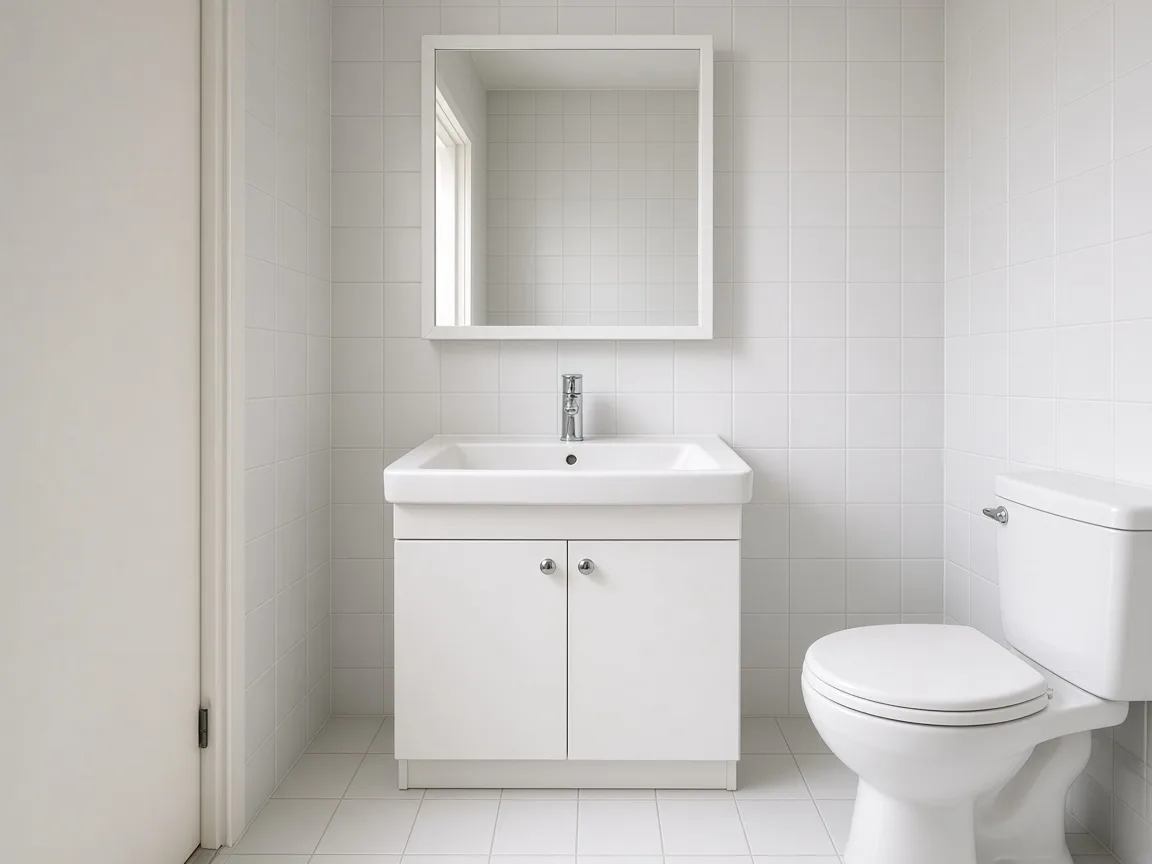
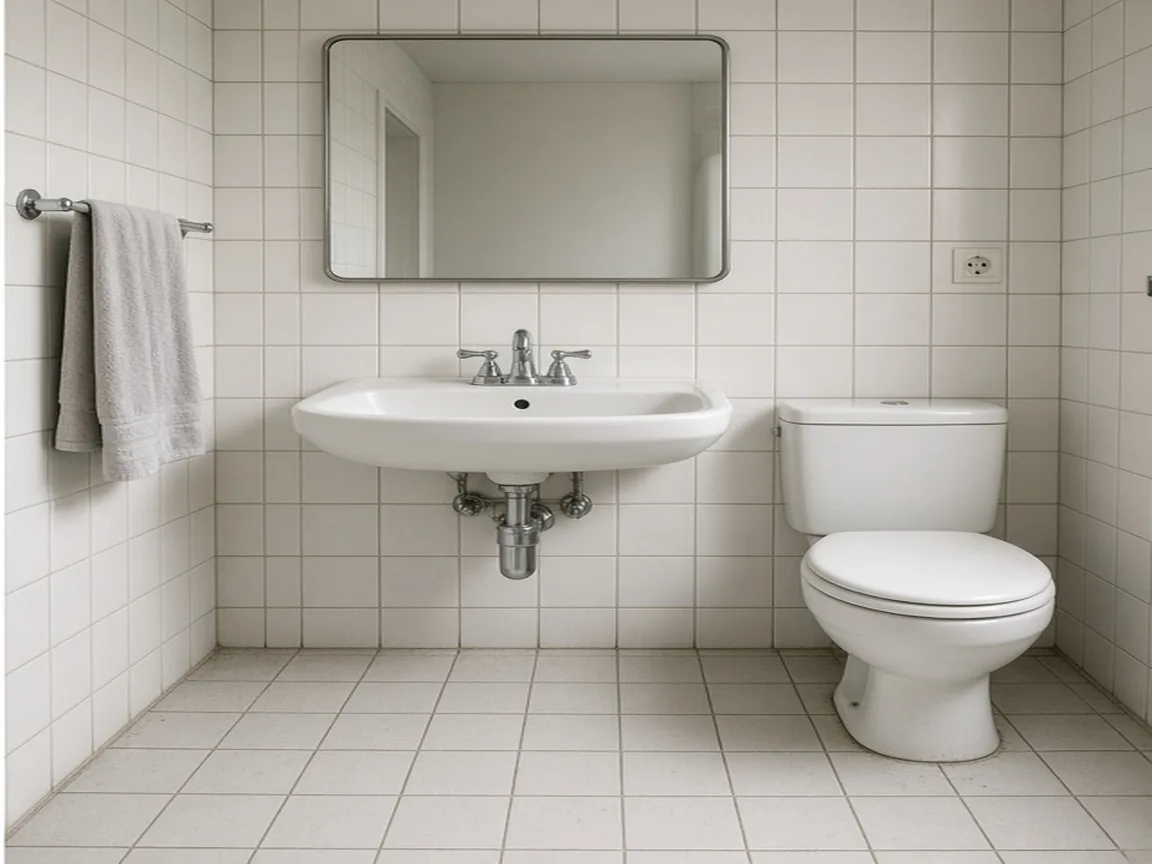
Replace mismatched bathroom demo before/after with a coherent cleaning pair.

diff --git a/config/klartfoto.php b/config/klartfoto.php
@@ -17,7 +17,7 @@ return [
         ? $billingNotifyEmail
         : ($contactEmail && filter_var($contactEmail, FILTER_VALIDATE_EMAIL) ? $contactEmail : null),
     'pricing_visible' => filter_var(env('KLARTFOTO_PRICING_VISIBLE', true), FILTER_VALIDATE_BOOL),
-    'demo_asset_version' => 3,
+    'demo_asset_version' => 4,
     'photo_max_edge' => 1600,
     'logo_max_edge' => 800,
     'start_seat_limit' => 1,

diff --git a/docs/ASSETS.md b/docs/ASSETS.md
@@ -9,3 +9,10 @@ Jedna spójna generacja przedstawia tę samą neutralną kuchnię przed i po upo
 - Pliki responsywne: `public/images/demo/kitchen-before-480.webp` (480 × 640, 32 232 B), `kitchen-before-768.webp` (768 × 1024, 69 860 B), `kitchen-after-480.webp` (480 × 640, 29 036 B), `kitchen-after-768.webp` (768 × 1024, 63 588 B). Razem około 191 KiB.
 - Hero ładuje większy wariant z priorytetem i srcset; niższe przykłady używają lazy loading. Uchwyt zmienia wyłącznie maskę/przesunięcie podziału. Nie twórz zdjęć pomieszczeń przez CSS ani SVG.
 - Prompt i zasób wolno zmienić po wyborze marki lub kierunku wizualnego; nie przypisuj obrazów prawdziwej firmie ani klientowi.
+
+## Łazienka (/exempel-rapport)
+
+- Para `public/images/demo/example-bathroom-before.webp` i `example-bathroom-after.webp` (1152 × 864) pochodzi z jednego dyptyku: `resources/images/source/bathroom-diptych.png`; lewa połowa to przed, prawa to po.
+- To samo pomieszczenie w obu kadrach; różnią się wyłącznie efekty sprzątania (brudne lustro i ręcznik na podłodze → czyste lustro, ręcznik na drążku, umyta podłoga).
+- Obraz służy wyłącznie jako poglądowa ilustracja, nie dokumentuje pracy prawdziwego klienta.
+- Po zmianie plików zwiększ `demo_asset_version` w `config/klartfoto.php` (aktualnie 4).
